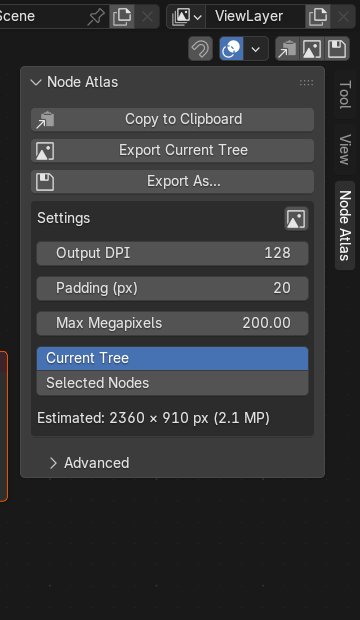
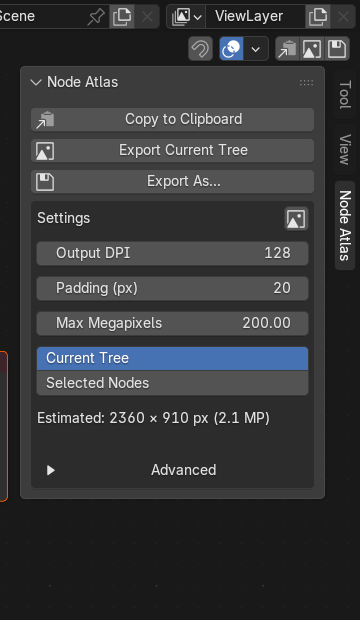
Keep the Advanced section in the panel and pin group paths
Draw the collapsible Advanced controls inside the Settings box instead of a separate child panel, and pin restored group paths so Blender keeps them across redraws.

Tests: 18/18 unit, full 5.3 GUI suite, group tests on 4.2-5.3, artifact installs.

Refs: CHANGELOG 1.3.4; panel and group regressions

Changed region(s): [[0.0306, 0.7355, 0.9167, 0.8274]]

diff --git a/node_atlas/__init__.py b/node_atlas/__init__.py
@@ -10,13 +10,13 @@ from .log import get_logger
 
 log = get_logger()
 
-__version__ = "1.3.3"
+__version__ = "1.3.4"
 __author__ = "kirillhod"
 
 bl_info = {
     "name": "Node Atlas",
     "author": "kirillhod",
-    "version": (1, 3, 3),
+    "version": (1, 3, 4),
     "blender": (4, 2, 0),
     "location": "Node Editor > Sidebar > Node Atlas",
     "description": "Export any node tree as one high-resolution PNG",
@@ -125,38 +125,28 @@ class NODE_PT_node_atlas(bpy.types.Panel):
                     icon="ERROR",
                 )
 
-
-class NODE_PT_node_atlas_advanced(bpy.types.Panel):
-    bl_space_type = "NODE_EDITOR"
-    bl_region_type = "UI"
-    bl_category = "Node Atlas"
-    bl_parent_id = "NODE_PT_node_atlas"
-    bl_label = "Advanced"
-    bl_options = {"DEFAULT_CLOSED"}
-
-    @classmethod
-    def poll(cls, context):
-        return NODE_PT_node_atlas.poll(context)
-
-    def draw(self, context):
-        layout = self.layout
-        prefs = _get_prefs(context)
-        if prefs is None:
-            layout.label(text="Node Atlas preferences are unavailable", icon="ERROR")
-            return
-        layout.prop(prefs, "default_dir")
-        layout.prop(prefs, "filename_pattern")
-        layout.prop(prefs, "hide_ui")
-        layout.prop(prefs, "restore_ui")
-        layout.prop(prefs, "deterministic")
-        layout.prop(prefs, "show_header_button")
-        layout.prop(prefs, "enable_shortcut")
-        if prefs.enable_shortcut:
-            row = layout.row(align=True)
-            row.prop(prefs, "shortcut_key")
-            row.prop(prefs, "shortcut_ctrl")
-            row.prop(prefs, "shortcut_shift")
-            row.prop(prefs, "shortcut_alt")
+        box.separator()
+        box.prop(
+            prefs,
+            "show_advanced",
+            text="Advanced",
+            emboss=False,
+            icon="TRIA_DOWN" if prefs.show_advanced else "TRIA_RIGHT",
+        )
+        if prefs.show_advanced:
+            box.prop(prefs, "default_dir")
+            box.prop(prefs, "filename_pattern")
+            box.prop(prefs, "hide_ui")
+            box.prop(prefs, "restore_ui")
+            box.prop(prefs, "deterministic")
+            box.prop(prefs, "show_header_button")
+            box.prop(prefs, "enable_shortcut")
+            if prefs.enable_shortcut:
+                row = box.row(align=True)
+                row.prop(prefs, "shortcut_key")
+                row.prop(prefs, "shortcut_ctrl")
+                row.prop(prefs, "shortcut_shift")
+                row.prop(prefs, "shortcut_alt")
 
 
 def _draw_menu(self, context):
@@ -228,7 +218,6 @@ classes = (
     operators.NODE_ATLAS_OT_cancel_export,
     operators.NODE_ATLAS_OT_open_last_export,
     NODE_PT_node_atlas,
-    NODE_PT_node_atlas_advanced,
 )
 
 

diff --git a/tests/gui/test_group.py b/tests/gui/test_group.py
@@ -97,6 +97,8 @@ def setup():
             bpy.ops.screen.screen_full_area(use_hide_panels=False)
         window, area, region = node_area()
         space = area.spaces.active
+    if os.environ.get("NODEATLAS_TEST_UNPIN") == "1":
+        space.pin = False
 
     prefs = bpy.context.preferences.addons["node_atlas"].preferences
     prefs.default_dir = OUT + os.sep
@@ -128,8 +130,14 @@ def tick():
                 window, area, _region = node_area()
                 space = area.spaces.active
                 after = group_state(space)
-                if after != state["before"]:
-                    fail(f"group state mismatch: {state['before']} != {after}")
+                before = state["before"]
+                if os.environ.get("NODEATLAS_TEST_UNPIN") == "1":
+                    if not after["pin"]:
+                        fail("the restored group path was not pinned")
+                    before = dict(before)
+                    before["pin"] = True
+                if after != before:
+                    fail(f"group state mismatch: {before} != {after}")
                 result = operators.last_result
                 if not result or not result["ok"]:
                     fail(f"export did not succeed: {result}")

diff --git a/node_atlas/capture.py b/node_atlas/capture.py
@@ -477,11 +477,13 @@ def apply_tree_path(
             except Exception:
                 break
             current_tree = space.edit_tree or group
-        space.pin = pin
+        # Pinning keeps a programmatically restored group path valid across
+        # redraws; an unpinned edit path is dropped by Blender.
+        space.pin = True
     elif groups:
         for group in groups:
             space.path.append(group)
-        space.pin = pin
+        space.pin = True
     else:
         space.pin = pin
     if pin and space.edit_tree is not tree:
@@ -501,7 +503,7 @@ def _restore_tree_path(
         and current_path == snapshot.path_trees
         and space.edit_tree is snapshot.tree
     ):
-        space.pin = snapshot.pin
+        space.pin = True if len(snapshot.path_trees) > 1 else snapshot.pin
         return
     apply_tree_path(
         space,

diff --git a/tests/unit/test_core.py b/tests/unit/test_core.py
@@ -198,9 +198,7 @@ def test_registration():
         check(os.path.isabs(prefs.default_dir), "default directory is absolute")
         check(os.path.isdir(prefs.default_dir), "default directory exists")
         check(prefs.enable_shortcut is False, "shortcut is off by default")
-        advanced = getattr(bpy.types, "NODE_PT_node_atlas_advanced", None)
-        check(advanced is not None, "advanced panel registered")
-        check("DEFAULT_CLOSED" in advanced.bl_options, "advanced panel is collapsed")
+        check(prefs.show_advanced is False, "advanced section is collapsed")
         from node_atlas import operators
 
         check(hasattr(operators.NODE_ATLAS_OT_export_as, "draw"), "export dialog settings")

diff --git a/node_atlas/preferences.py b/node_atlas/preferences.py
@@ -127,6 +127,11 @@ class NodeAtlasPreferences(bpy.types.AddonPreferences):
         description="Show the export buttons in the Node Editor header",
         default=True,
     )
+    show_advanced: bpy.props.BoolProperty(
+        name="Advanced",
+        description="Show folder, filename, UI and shortcut options",
+        default=False,
+    )
     enable_shortcut: bpy.props.BoolProperty(
         name="Enable Shortcut",
         description="Enable a quick-export shortcut; off by default to avoid conflicts",

diff --git a/docs/make_images.py b/docs/make_images.py
@@ -144,6 +144,7 @@ def save_panel():
     prefs.max_mp = 200.0
     prefs.scope = "CURRENT"
     prefs.enable_shortcut = False
+    prefs.show_advanced = False
     with bpy.context.temp_override(window=window, area=area, region=region):
         bpy.ops.screen.screen_full_area(use_hide_panels=False)
     window, area, region = node_area()

diff --git a/QA_REPORT.md b/QA_REPORT.md
@@ -1,6 +1,6 @@
 # NodeAtlas QA report
 
-**Version:** 1.3.3
+**Version:** 1.3.4
 **Date:** 12 November 2026  
 **Platforms:** Windows, GUI sessions only
 
@@ -110,19 +110,20 @@ normal layout and with an already-maximized editor.
 
 - `blender --command extension validate node_atlas`: PASS.
 - `blender --command extension build --source-dir node_atlas --output-dir dist`:
-  produces `node_atlas-1.3.3.zip` with the manifest and package modules.
+  produces `node_atlas-1.3.4.zip` with the manifest and package modules.
 - Classic add-on clean-profile install: PASS on Blender 4.2.23, 4.5.9, 5.1.2, 5.2.4
   and 5.3.0 in isolated `BLENDER_USER_SCRIPTS/scripts/addons` profiles (0.6.1); the
   0.6.2, 0.7.0, 0.8.0 and 1.0.0 packages were re-validated on 5.3.0. The 1.1.0, 1.2.0,
-  1.2.1, 1.3.0, 1.3.1, 1.3.2 and 1.3.3 packages were copied into isolated profiles on
-  all five versions; `test_artifact.py` enabled `node_atlas` and exported a PNG on each.
+  1.2.1, 1.3.0, 1.3.1, 1.3.2, 1.3.3 and 1.3.4 packages were copied into isolated
+  profiles on all five versions; `test_artifact.py` enabled `node_atlas` and exported a
+  PNG on each.
 - Extension clean-profile install: PASS across the same five versions with 0.6.1; the
   0.6.2, 0.7.0, 0.8.0 and 1.0.0 zips were installed into isolated repositories with
   `install-file --enable`, loading `bl_ext.nodeatlas_test.node_atlas`. The 1.1.0, 1.2.0,
-  1.2.1, 1.3.0, 1.3.1, 1.3.2 and 1.3.3 zips installed and exported through
+  1.2.1, 1.3.0, 1.3.1, 1.3.2, 1.3.3 and 1.3.4 zips installed and exported through
   `bl_ext.nodeatlas_test.node_atlas` on 4.2.23 and 5.3.0. On 4.5.9, 5.1.2 and 5.2.4 the
   local builds' `--command extension` Python runtime is incomplete (their bundled
-  `python.exe` cannot find the stdlib), so the same 1.3.3 zip payload was validated
+  `python.exe` cannot find the stdlib), so the same 1.3.4 zip payload was validated
   through the classic install path on those versions instead.
 - Linux and macOS are untested: no Linux distribution is installed under WSL and no Mac
   hardware is available. `system.ui_scale` cannot be changed from RNA, so OS-level

diff --git a/RELEASE_NOTES.md b/RELEASE_NOTES.md
@@ -1,13 +1,20 @@
-# NodeAtlas 1.3.3 release notes
+# NodeAtlas 1.3.4 release notes
 
 **Release date:** 13 November 2026
-**Artifact:** `node_atlas-1.3.3.zip` (Blender extension) and the same package as a
+**Artifact:** `node_atlas-1.3.4.zip` (Blender extension) and the same package as a
 classic add-on.
 
 NodeAtlas exports any Blender node tree as one high-resolution PNG with real editor
 background padding, selected-nodes support, `Esc` cancellation and full UI restoration.
 It captures the Node Editor in overlapping tiles and stitches them with
 [NumPy](https://numpy.org/doc/stable/); no re-rendering and no external dependencies.
+
+## Changes since 1.3.3
+
+- The collapsible **Advanced** controls live inside the Settings box again, so the label
+  cannot detach from the panel background after a refresh.
+- Restored nested group paths are pinned, keeping the user in the group across redraws.
+- **Open Last Export** stays a compact icon in the Settings header.
 
 ## Changes since 1.3.2
 
@@ -75,7 +82,7 @@ It captures the Node Editor in overlapping tiles and stitches them with
 | 4.5.9 LTS | Windows 10 22H2 | `screenshot_area` | PASS for Shader/GN/Texture |
 | 4.2.23 LTS | Windows 10 22H2 | `screenshot_area` | PASS for Shader/GN/Texture |
 
-The 1.3.3 artifact exported a PNG as an extension on Blender 4.2.23 and 5.3.0 and as a
+The 1.3.4 artifact exported a PNG as an extension on Blender 4.2.23 and 5.3.0 and as a
 classic add-on on all five versions. On 4.5.9, 5.1.2 and 5.2.4 the local builds'
 `--command extension` Python runtime is incomplete, so the same zip payload was
 validated through the classic install path. Unit tests are 16/16 on

diff --git a/IMPLEMENTATION_PLAN.md b/IMPLEMENTATION_PLAN.md
@@ -30,11 +30,11 @@ the release notes; screenshots are intentionally omitted.
 | M8 Packaging/QA | 0.8.0 | Done for Windows; Linux/macOS and a second monitor are documented as untested |
 | M9 Release | 1.0.0 | Done: artifact regression passed, local annotated tag `v1.0.0` |
 
-**Post-release (1.3.3):** header export buttons, a collapsible Advanced panel with
+**Post-release (1.3.4):** header export buttons, an inline collapsible Advanced section,
 Desktop paths, configurable shortcut, settings in the Export As dialog, DPI 128,
-restored nested group paths (including maximized editors), a compact Open Last Export
-icon and clearer Max Megapixels documentation. See [`CHANGELOG.md`](CHANGELOG.md) and
-[`RELEASE_NOTES.md`](RELEASE_NOTES.md).
+restored nested group paths (including pinned/maximized editors), a compact Open Last
+Export icon and clearer Max Megapixels documentation. See
+[`CHANGELOG.md`](CHANGELOG.md) and [`RELEASE_NOTES.md`](RELEASE_NOTES.md).
 
 This plan is a dependency-ordered roadmap, not a promise of dates. Estimates are focused
 development days and exclude waiting for Blender builds, OS/hardware access and review.

diff --git a/AGENTS.md b/AGENTS.md
@@ -15,7 +15,7 @@ as one high-resolution PNG. It captures the
 [NumPy](https://numpy.org/doc/stable/), and saves through
 [`imbuf`](https://docs.blender.org/api/current/imbuf.html). No re-rendering.
 
-**Status:** 1.3.3. M0–M8 are complete (Shader/Geometry Nodes/Compositor/Texture),
+**Status:** 1.3.4. M0–M8 are complete (Shader/Geometry Nodes/Compositor/Texture),
 the legacy 4.2–5.1 path is validated for Shader/GN/Texture on Blender 4.2.23, 4.5.9
 and 5.1.2, and hardening (limits, fault injection, read-only/full-disk output, scaling)
 is tested on 4.2–5.3. Compositor on 4.2–5.1 is guarded due to a native crash. Packaging

diff --git a/CHANGELOG.md b/CHANGELOG.md
@@ -1,5 +1,13 @@
 # Changelog
 
+## 1.3.4
+
+- Keep the collapsible **Advanced** controls inside the Settings box instead of a
+  separate child panel, fixing the detached label/background on refresh.
+- Pin restored group paths so Blender keeps them across redraws; nested group export no
+  longer returns to the main tree.
+- Keep **Open Last Export** as a compact Settings icon.
+
 ## 1.3.3
 
 - Capture the node tree and group path when the export is requested, so a context
